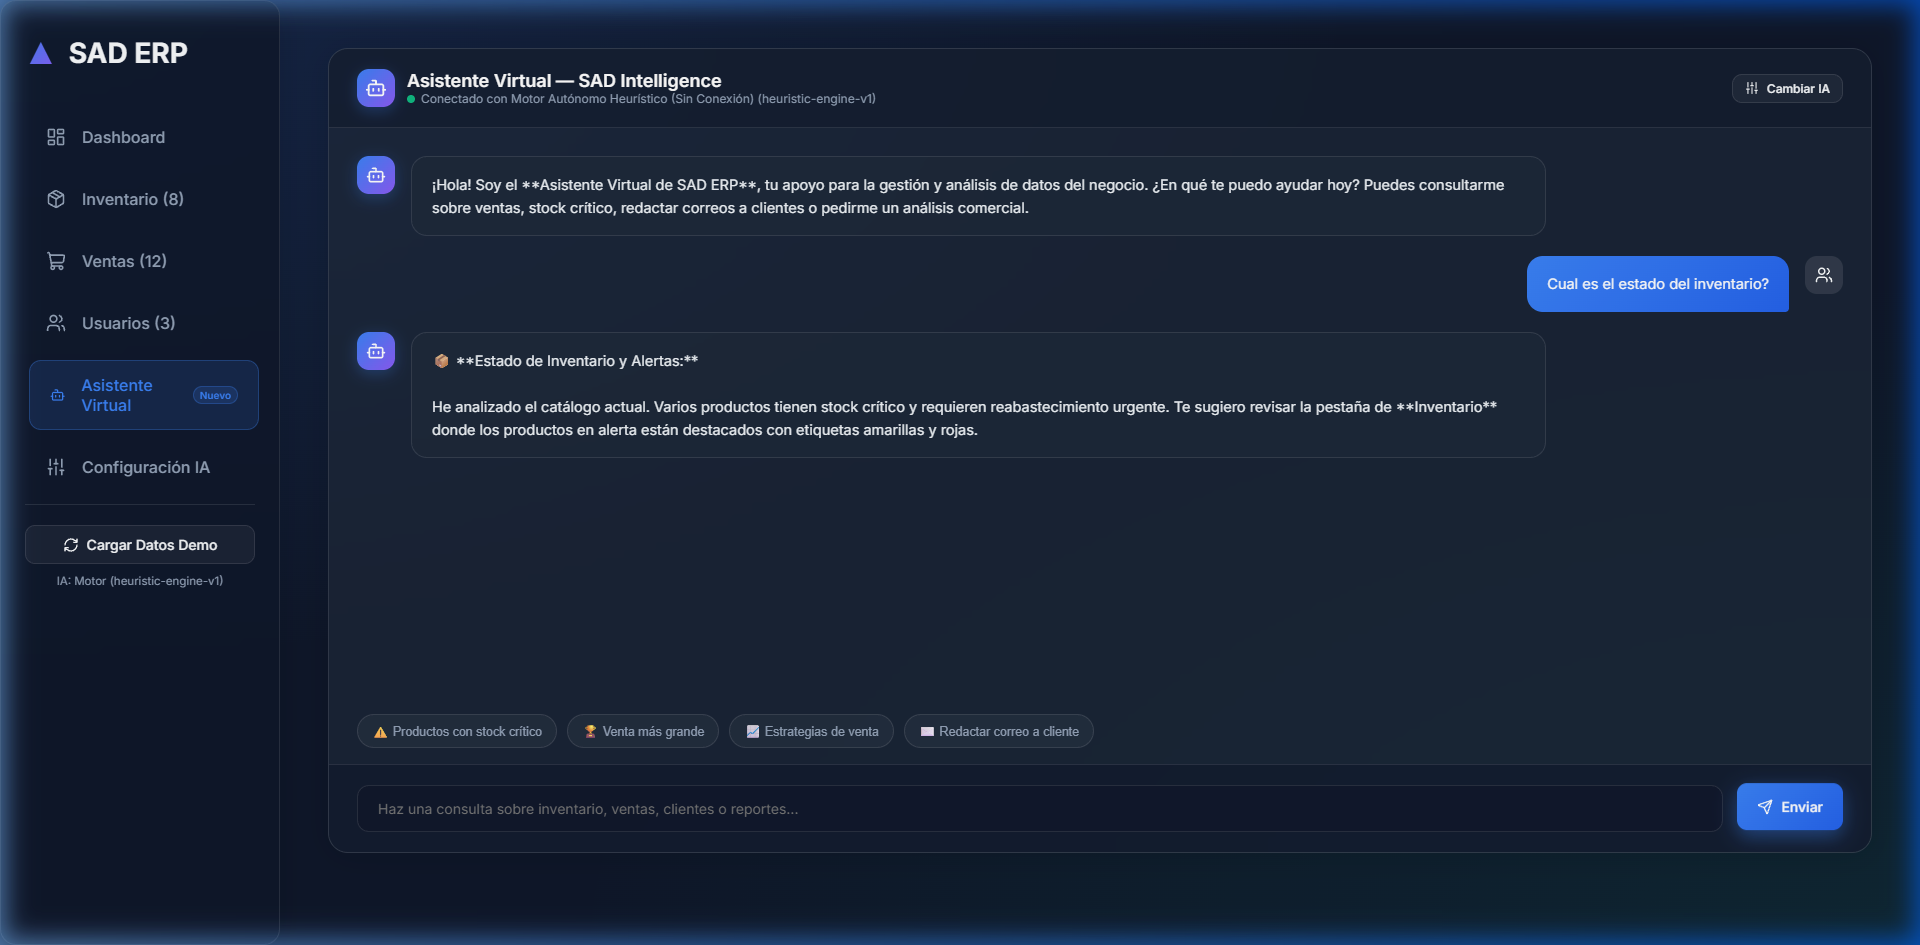
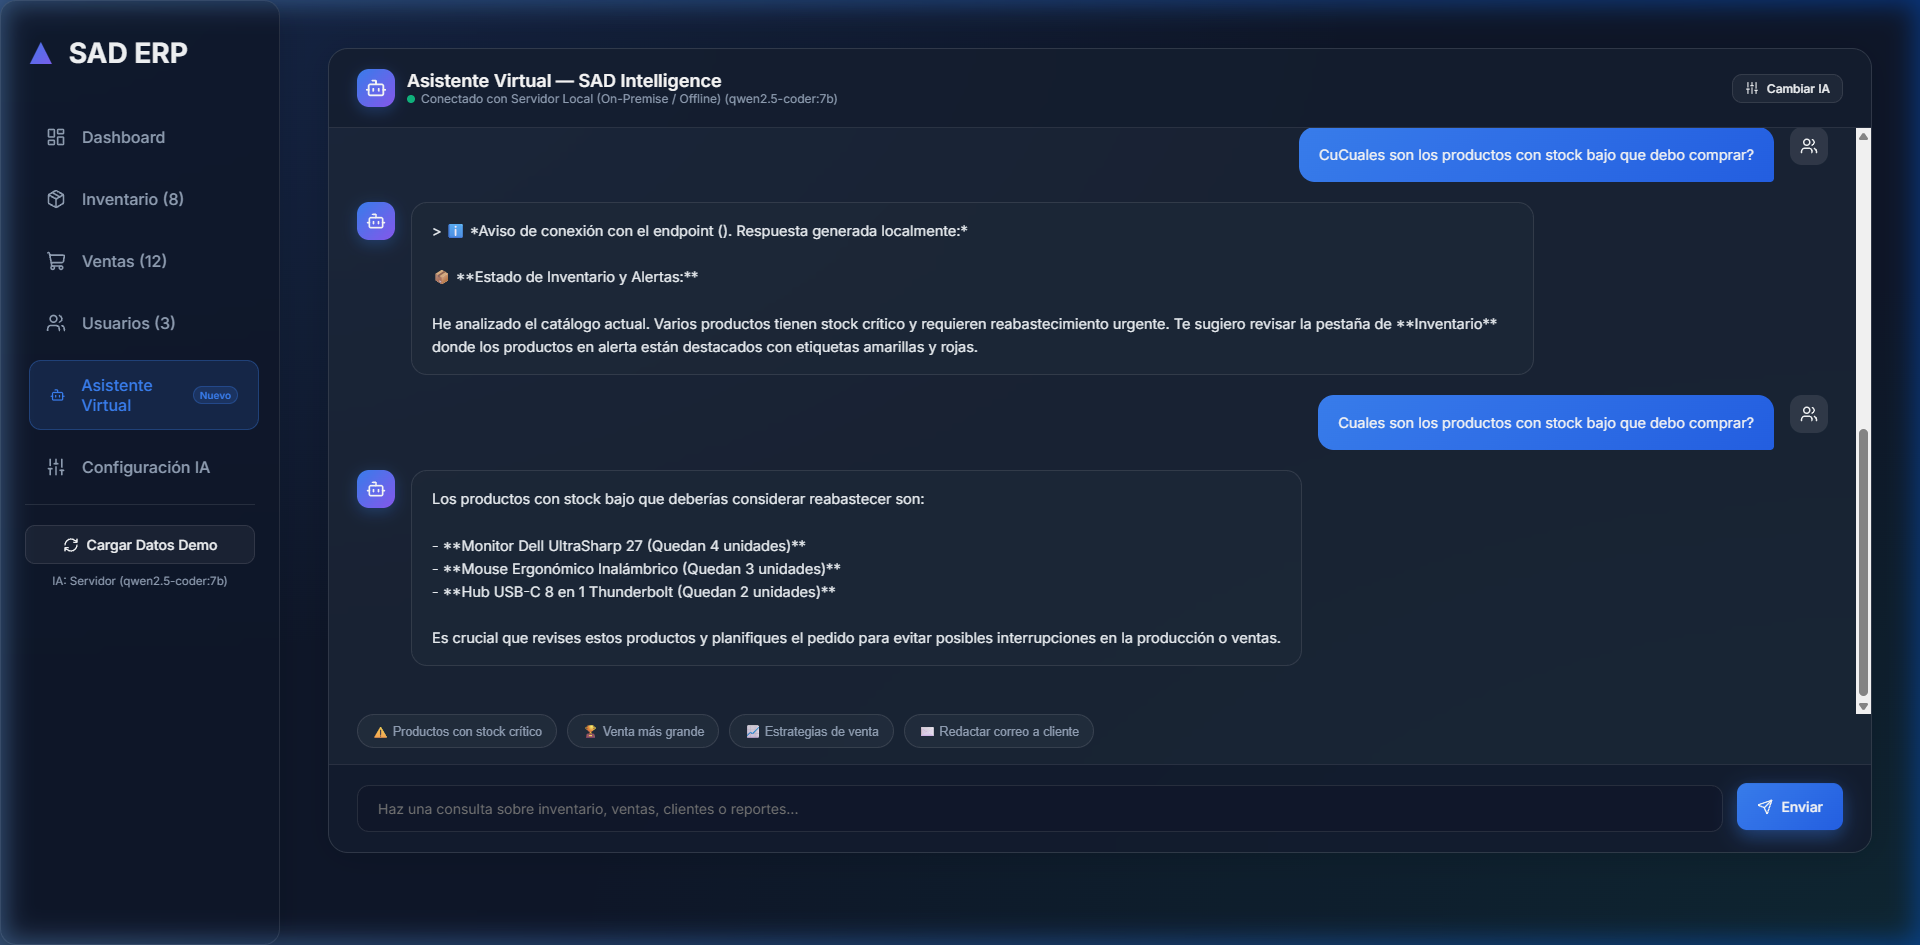
fix: resolver fallback a respuestas simuladas en modelos locales aumentando timeout a 120s y persistencia de configuracion

diff --git a/api/services/ai_service.py b/api/services/ai_service.py
@@ -5,21 +5,42 @@ from typing import List, Dict, Any, Optional
 from sqlalchemy.orm import Session
 from api import models
 
-# Configuración por defecto (Arquitectura neutral y agnóstica de proveedor)
-AI_CONFIG = {
-    "provider": "simulated",  # "simulated", "local_engine", "cloud_standard", "cloud_custom"
-    "api_key": "",
-    "model": "heuristic-engine-v1",
-    "base_url": ""
-}
+# Persistencia de configuración
+CONFIG_FILE = os.path.abspath(os.path.join(os.path.dirname(__file__), "..", "..", "ai_config.json"))
+
+def load_ai_config() -> Dict[str, Any]:
+    default_config = {
+        "provider": "simulated",
+        "api_key": "",
+        "model": "heuristic-engine-v1",
+        "base_url": ""
+    }
+    if os.path.exists(CONFIG_FILE):
+        try:
+            with open(CONFIG_FILE, "r", encoding="utf-8") as f:
+                data = json.load(f)
+                default_config.update(data)
+        except Exception:
+            pass
+    return default_config
+
+def save_ai_config(config: Dict[str, Any]):
+    try:
+        with open(CONFIG_FILE, "w", encoding="utf-8") as f:
+            json.dump(config, f, indent=2, ensure_ascii=False)
+    except Exception as e:
+        print(f"Error guardando ai_config.json: {e}")
+
+# Configuración activa
+AI_CONFIG = load_ai_config()
 
 # Metadatos de arquitecturas soportadas (Genéricas, sin nombres comerciales de terceros)
 PROVIDERS_INFO = {
     "local_engine": {
         "name": "Servidor Local (On-Premise / Offline)",
-        "default_model": "local-model-default",
-        "default_url": "http://localhost:11434/v1",
-        "models": ["local-model-default", "lightweight-3b", "balanced-8b"],
+        "default_model": "qwen2.5-coder:7b",
+        "default_url": "http://127.0.0.1:11434/v1",
+        "models": ["qwen2.5-coder:7b", "llama3:latest", "phi4-mini:latest", "gemma2:2b"],
         "requires_key": False,
         "description": "Ejecución privada en hardware propio o red local. Máxima privacidad, sin envío de datos a servidores externos."
     },
@@ -97,8 +118,13 @@ async def call_llm(messages: List[Dict[str, str]], provider: str = None, api_key
     if prov == "simulated" or not prov:
         return generate_simulated_response(messages)
 
-    # Invocación mediante protocolo REST estándar de chat completions
-    endpoint = f"{url.rstrip('/')}/chat/completions"
+    # Normalizar URL para evitar errores comunes (ej: localhost sin /v1)
+    clean_url = url.rstrip('/')
+    if prov == "local_engine":
+        if not clean_url.endswith("/v1") and not clean_url.endswith("/api"):
+            clean_url = f"{clean_url}/v1"
+
+    endpoint = f"{clean_url}/chat/completions"
     headers = {"Content-Type": "application/json"}
     if key:
         headers["Authorization"] = f"Bearer {key}"
@@ -106,24 +132,72 @@ async def call_llm(messages: List[Dict[str, str]], provider: str = None, api_key
     payload = {
         "model": mod or PROVIDERS_INFO.get(prov, {}).get("default_model", "standard-model-v1"),
         "messages": messages,
-        "temperature": 0.6
+        "temperature": 0.6,
+        "stream": False
     }
 
+    # Para modelos locales se concede hasta 120s para permitir la carga a memoria VRAM/RAM
+    timeout_seconds = 120.0 if prov == "local_engine" else 45.0
+    client_timeout = httpx.Timeout(timeout_seconds, connect=10.0)
+
     try:
-        async with httpx.AsyncClient(timeout=30.0) as client:
+        async with httpx.AsyncClient(timeout=client_timeout) as client:
             res = await client.post(endpoint, headers=headers, json=payload)
             if res.status_code == 200:
                 data = res.json()
-                return data["choices"][0]["message"]["content"]
-            else:
-                return generate_simulated_response(
-                    messages, 
-                    f"Aviso del servicio ({res.status_code}): Generando respuesta mediante el motor analítico interno:"
-                )
+                if "choices" in data and len(data["choices"]) > 0:
+                    return data["choices"][0]["message"]["content"]
+                elif "message" in data:
+                    return data["message"].get("content", "")
+            
+            # Si el endpoint estándar dio 404 en servidor local, intentar endpoint nativo /api/chat
+            if prov == "local_engine" and res.status_code == 404:
+                ollama_url = clean_url.replace("/v1", "") + "/api/chat"
+                ollama_payload = {
+                    "model": mod,
+                    "messages": messages,
+                    "stream": False
+                }
+                res2 = await client.post(ollama_url, headers={"Content-Type": "application/json"}, json=ollama_payload)
+                if res2.status_code == 200:
+                    data2 = res2.json()
+                    return data2.get("message", {}).get("content", "")
+
+            # Error HTTP devuelto por el servicio
+            return generate_simulated_response(
+                messages, 
+                f"Aviso del servicio ({res.status_code}): Generando respuesta mediante el motor analítico interno:"
+            )
+
+    except httpx.ConnectError:
+        # Si falló conectando a localhost en Windows, intentar automáticamente 127.0.0.1
+        if "localhost" in endpoint:
+            try:
+                alt_endpoint = endpoint.replace("localhost", "127.0.0.1")
+                async with httpx.AsyncClient(timeout=client_timeout) as client:
+                    alt_res = await client.post(alt_endpoint, headers=headers, json=payload)
+                    if alt_res.status_code == 200:
+                        alt_data = alt_res.json()
+                        if "choices" in alt_data and len(alt_data["choices"]) > 0:
+                            return alt_data["choices"][0]["message"]["content"]
+            except Exception:
+                pass
+        return generate_simulated_response(
+            messages,
+            f"No se pudo conectar con el endpoint local en {clean_url}. Verifica que el servicio esté ejecutándose:"
+        )
+
+    except httpx.TimeoutException:
+        return generate_simulated_response(
+            messages,
+            f"El modelo '{mod}' tardó más de {int(timeout_seconds)}s en responder (puede estar cargándose en memoria):"
+        )
+
     except Exception as e:
+        err_msg = str(e) or type(e).__name__
         return generate_simulated_response(
             messages, 
-            f"Aviso de conexión con el endpoint ({str(e)}). Respuesta generada localmente:"
+            f"Aviso de conexión con el endpoint ({err_msg}). Respuesta generada localmente:"
         )
 
 def generate_simulated_response(messages: List[Dict[str, str]], prefix_note: str = "") -> str:

diff --git a/tests/test_api.py b/tests/test_api.py
@@ -155,27 +155,32 @@ def test_reporte_ai():
     assert "proyeccion_crecimiento" in data
 
 def test_ai_configuracion_multi_proveedor():
-    # 1. Obtener lista de proveedores soportados
+    # 1. Obtener lista de proveedores y guardar estado previo
     resp = client.get("/ai/config")
     assert resp.status_code == 200
+    prev_config = resp.json()["current"]
     providers = resp.json()["providers"]
     assert "local_engine" in providers
     assert "cloud_standard" in providers
     assert "cloud_custom" in providers
     assert "simulated" in providers
 
-    # 2. Configurar Servicio Cloud Estándar
-    update_resp = client.post("/ai/config", json={
-        "provider": "cloud_standard",
-        "api_key": "sk-test12345678",
-        "model": "standard-model-v1"
-    })
-    assert update_resp.status_code == 200
-    assert update_resp.json()["provider"] == "cloud_standard"
-
-    # 3. Volver a modo simulado para pruebas seguras
-    reset_resp = client.post("/ai/config", json={"provider": "simulated"})
-    assert reset_resp.status_code == 200
+    try:
+        # 2. Configurar Servicio Cloud Estándar
+        update_resp = client.post("/ai/config", json={
+            "provider": "cloud_standard",
+            "api_key": "sk-test12345678",
+            "model": "standard-model-v1"
+        })
+        assert update_resp.status_code == 200
+        assert update_resp.json()["provider"] == "cloud_standard"
+    finally:
+        # 3. Restaurar estado previo
+        client.post("/ai/config", json={
+            "provider": prev_config.get("provider", "local_engine"),
+            "model": prev_config.get("model", ""),
+            "base_url": prev_config.get("base_url", "")
+        })
 
 
 def test_ai_chat_asistente():

diff --git a/api/routers/ai.py b/api/routers/ai.py
@@ -61,6 +61,9 @@ def update_ai_config(config: AIConfigRequest):
     default_url = ai_service.PROVIDERS_INFO[config.provider].get("default_url", "")
     ai_service.AI_CONFIG["base_url"] = config.base_url.strip() if config.base_url else default_url
 
+    # Persistir configuración en disco
+    ai_service.save_ai_config(ai_service.AI_CONFIG)
+
     return {
         "message": f"Configuración de IA actualizada a '{ai_service.PROVIDERS_INFO[config.provider]['name']}'",
         "provider": ai_service.AI_CONFIG["provider"],
